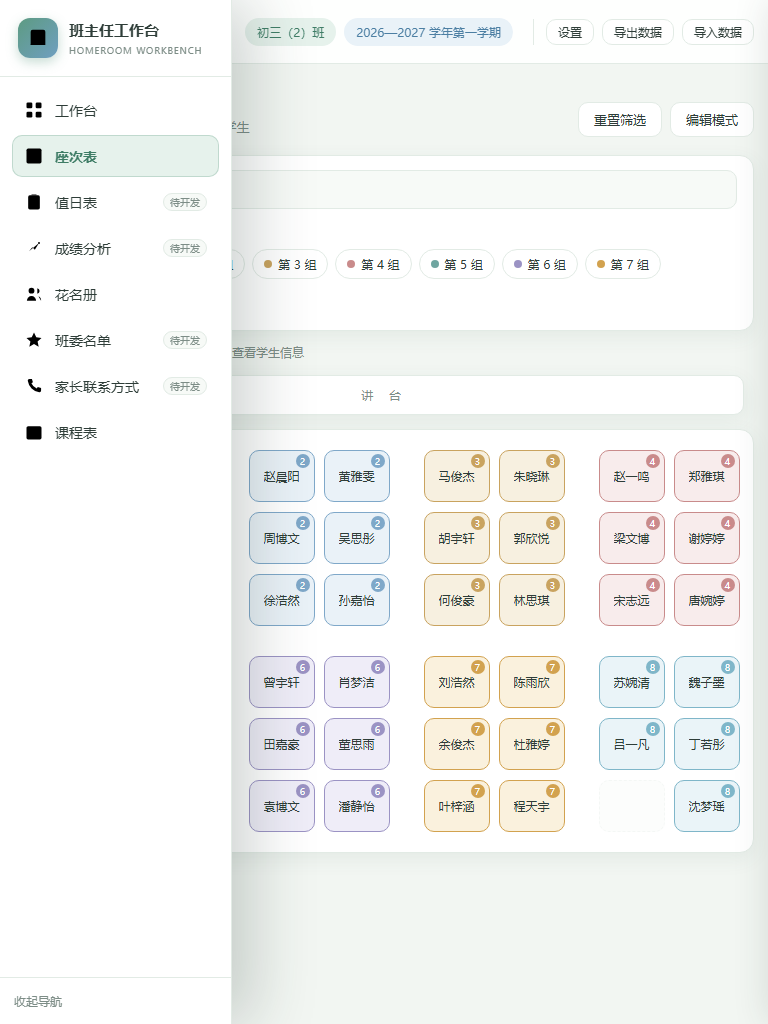
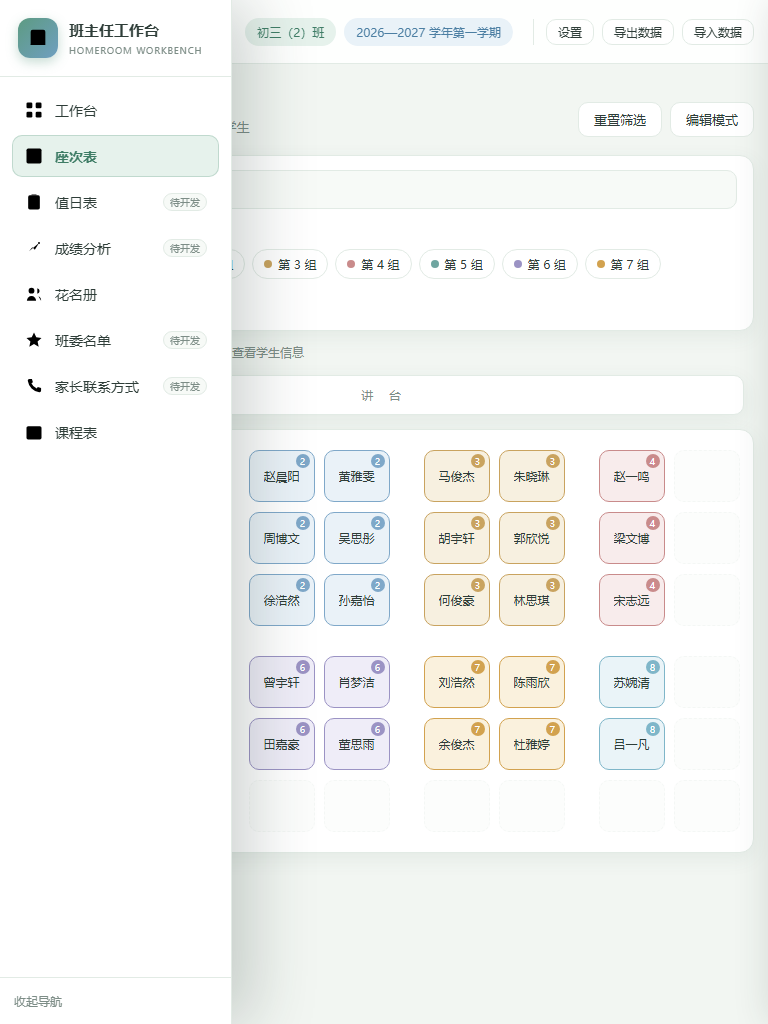
feat: 座次表排/列可随时调整（布局持久化、超范围学生自动转未安排）

diff --git a/js/app.js b/js/app.js
@@ -88,6 +88,7 @@ const state = {
 
 const TODAY = ATTENDANCE.date;
 const WEEK_CN = ['日', '一', '二', '三', '四', '五', '六'];
+const CLASSROOM_DEFAULT = { rows: 6, cols: 8 };
 
 /* ---------- 工具函数 ---------- */
 const byId = id => document.getElementById(id);
@@ -199,6 +200,10 @@ async function loadAllData() {
   }
   if (!AppData.settings.backup) {
     AppData.settings.backup = { enabled: true, frequency: 'daily', keep: 5, lastBackup: null };
+    changed = true;
+  }
+  if (!AppData.settings.classroom) {
+    AppData.settings.classroom = Object.assign({}, CLASSROOM_DEFAULT);
     changed = true;
   }
   if (changed) await Store.putRecord('settings', AppData.settings);
@@ -1621,28 +1626,41 @@ function seatCell(rowNo, colNo) {
     </button>`;
 }
 
-function seatRow(rowNo) {
-  const cells = [1, 2, 3, 4, 5, 6, 7, 8].map(c => seatCell(rowNo, c));
+function classroomDims() {
+  const c = (AppData.settings && AppData.settings.classroom) || CLASSROOM_DEFAULT;
+  const rows = Math.min(Math.max(parseInt(c.rows, 10) || 6, 1), 12);
+  const cols = Math.min(Math.max(parseInt(c.cols, 10) || 8, 1), 16);
+  return { rows, cols };
+}
+
+function seatRow(rowNo, cols) {
+  let cellsHtml = '';
+  for (let c = 1; c <= cols; c += 1) {
+    cellsHtml += seatCell(rowNo, c);
+    if (c % 2 === 0 && c !== cols) cellsHtml += '<span class="aisle"></span>';
+  }
   return `
     <div class="seat-row${rowNo === 4 ? ' row-gap' : ''}">
       <span class="row-label">${rowNo}排</span>
-      ${cells[0]}${cells[1]}<span class="aisle"></span>
-      ${cells[2]}${cells[3]}<span class="aisle"></span>
-      ${cells[4]}${cells[5]}<span class="aisle"></span>
-      ${cells[6]}${cells[7]}
+      ${cellsHtml}
     </div>`;
 }
 
 function renderSeating() {
+  const dims = classroomDims();
   const groupChips = [0, 1, 2, 3, 4, 5, 6, 7, 8].map(g => `
     <button class="gchip g${g}" data-group="${g}" type="button">
       ${g ? `<i class="dot"></i>第 ${g} 组` : '全部'}
     </button>`).join('');
   const unseated = D.students().filter(s => !s.row || !s.col);
+  const dimOptions = n => Array.from({ length: n }, (_, i) => i + 1).map(v => `<option value="${v}">${v}</option>`).join('');
   const editBar = state.seatEditMode ? `
     <div class="edit-bar card">
       <span class="edit-status" id="editStatus"></span>
       <div class="edit-actions">
+        <label class="dims-label">排数 <select id="rowDimSel">${dimOptions(12)}</select></label>
+        <label class="dims-label">列数 <select id="colDimSel">${dimOptions(16)}</select></label>
+        <button class="btn" id="applyDimsBtn" type="button">调整布局</button>
         <button class="btn ${state.seatMoveMode ? 'primary' : ''}" id="moveBtn" type="button">移动 / 互换</button>
         <button class="btn primary" id="addStudentBtn" type="button">＋ 新增学生</button>
       </div>
@@ -1655,7 +1673,7 @@ function renderSeating() {
 
   byId('content').innerHTML = `
     <div class="page-head">
-      <div><h2>座次表</h2><p>${classInfo().className} · 6 排 × 8 列 · 共 ${D.students().length} 名学生</p></div>
+      <div><h2>座次表</h2><p>${classInfo().className} · ${dims.rows} 排 × ${dims.cols} 列 · 共 ${D.students().length} 名学生</p></div>
       <div class="page-actions">
         <button class="btn ghost" id="seatReset" type="button">重置筛选</button>
       <button class="btn ${state.seatEditMode ? 'primary' : 'ghost'}" id="seatEditBtn" type="button">
@@ -1680,13 +1698,13 @@ function renderSeating() {
     ${unseatedPanel}
 
     <p class="seat-hint">${state.seatEditMode
-      ? '编辑模式：点击座位修改学生信息，点击空位新增学生；开启「移动 / 互换」后先点一名学生，再点目标座位。'
+      ? '编辑模式：点击座位修改学生信息，点击空位新增学生；开启「移动 / 互换」后先点一名学生，再点目标座位；可在编辑栏随时调整排 / 列。'
       : '点击小组标签可多选高亮；点击任意座位查看学生信息'}</p>
 
     <div class="podium"><span>讲 台</span></div>
     <div class="seat-map-wrap card">
       <div class="seat-map" id="seatMap">
-        ${[1, 2, 3, 4, 5, 6].map(seatRow).join('')}
+        ${Array.from({ length: dims.rows }, (_, i) => seatRow(i + 1, dims.cols)).join('')}
       </div>
     </div>`;
 
@@ -1753,13 +1771,29 @@ function bindSeatEvents() {
     });
   }
 
+  const rowSel = byId('rowDimSel');
+  const colSel = byId('colDimSel');
+  if (rowSel && colSel) {
+    const dims = classroomDims();
+    rowSel.value = String(dims.rows);
+    colSel.value = String(dims.cols);
+    byId('applyDimsBtn').addEventListener('click', () => {
+      const rows = Number(rowSel.value);
+      const cols = Number(colSel.value);
+      const moved = D.students().filter(s => s.row > rows || s.col > cols).length;
+      if (!confirm(`将座位布局调整为 ${rows} 排 × ${cols} 列。\n超出范围的 ${moved} 名学生将转为「未安排」，确定吗？`)) return;
+      applyClassroomDims(rows, cols);
+    });
+  }
+
   const addBtn = byId('addStudentBtn');
   if (addBtn) {
     addBtn.addEventListener('click', () => {
+      const dims = classroomDims();
       const occupied = new Set(D.students().filter(s => s.row > 0).map(s => s.row + '-' + s.col));
       let empty = null;
-      for (let r = 1; r <= 6 && !empty; r += 1) {
-        for (let c = 1; c <= 8; c += 1) {
+      for (let r = 1; r <= dims.rows && !empty; r += 1) {
+        for (let c = 1; c <= dims.cols; c += 1) {
           if (!occupied.has(r + '-' + c)) { empty = [r, c]; break; }
         }
       }
@@ -1824,6 +1858,23 @@ function updateMoveUI() {
   }
 }
 
+async function applyClassroomDims(rows, cols) {
+  const s = AppData.settings;
+  s.classroom = { rows, cols };
+  let moved = 0;
+  AppData.students.forEach(st => {
+    if (st.row > rows || st.col > cols) {
+      st.row = 0;
+      st.col = 0;
+      moved += 1;
+    }
+  });
+  await Store.putRecord('settings', s);
+  if (moved) await Store.putStudents(AppData.students);
+  renderSeating();
+  showToast(`座位布局已调整为 ${rows} 排 × ${cols} 列${moved ? `，${moved} 名学生转为未安排` : ''}`);
+}
+
 function updateSeatFilter(countEl) {
   const q = state.seatQuery.toLowerCase();
   const hasGroup = state.activeGroups.size > 0;
@@ -1872,10 +1923,12 @@ function openStudentForm(sid, defRow, defCol) {
     name: '', gender: '男', group: 1, row: defRow || 0, col: defCol || 0,
     role: '', parent: '', phone: ''
   };
+  const dims = classroomDims();
   const rowOptions = ['<option value="0">未安排</option>']
-    .concat([1, 2, 3, 4, 5, 6].map(r => `<option value="${r}" ${v.row === r ? 'selected' : ''}>第 ${r} 排</option>`)).join('');
+    .concat(Array.from({ length: dims.rows }, (_, i) => i + 1).map(r =>
+      `<option value="${r}" ${v.row === r ? 'selected' : ''}>第 ${r} 排</option>`)).join('');
   const colOptions = ['<option value="0">未安排</option>']
-    .concat([1, 2, 3, 4, 5, 6, 7, 8].map(c =>
+    .concat(Array.from({ length: dims.cols }, (_, i) => i + 1).map(c =>
       `<option value="${c}" ${v.col === c ? 'selected' : ''}>第 ${c} 列</option>`)).join('');
   const extraActions = s ? `
     <div class="student-extra">
@@ -1923,7 +1976,7 @@ function openStudentForm(sid, defRow, defCol) {
     colSel.disabled = rowSel.value === '0';
     if (rowSel.value === '0') colSel.value = '0';
   };
-  if (![1, 2, 3, 4, 5, 6, 7, 8].includes(v.col) || v.row === 0) colSel.value = '0';
+  if (v.row === 0 || !Array.from({ length: dims.cols }, (_, i) => i + 1).includes(v.col)) colSel.value = '0';
   rowSel.addEventListener('change', syncCol);
   syncCol();
 
@@ -3568,6 +3621,7 @@ async function finishInit() {
     className: byId('initClassName').value.trim() || classInfo().className,
     semester: byId('initSemester').value.trim() || classInfo().semester,
     backup: { enabled: true, frequency: 'daily', keep: 5, lastBackup: null },
+    classroom: Object.assign({}, CLASSROOM_DEFAULT),
     initializedAt: new Date().toISOString()
   };
 

diff --git a/css/style.css b/css/style.css
@@ -1505,6 +1505,27 @@ body.drawer-lock { overflow: hidden; }
 .edit-status { font-size: 12px; color: var(--ink); }
 .edit-actions { display: flex; gap: 8px; flex-wrap: wrap; }
 
+.dims-label {
+  display: inline-flex;
+  align-items: center;
+  gap: 5px;
+  font-size: 12px;
+  color: var(--ink);
+}
+
+.dims-label select {
+  border: 1px solid var(--border);
+  border-radius: 8px;
+  padding: 6px 8px;
+  font-size: 12px;
+  background: var(--surface);
+  color: var(--ink);
+  font-family: inherit;
+  outline: none;
+}
+
+.dims-label select:focus { border-color: var(--primary); }
+
 .unseated-panel {
   display: flex;
   align-items: center;

diff --git a/README.md b/README.md
@@ -20,7 +20,7 @@ python -m http.server 8080
 
 - **整体布局**：左侧固定导航（8 个菜单项），右侧主内容区；浅绿 / 浅蓝 / 米白配色；平板适配，侧栏可折叠（桌面端）或抽屉式滑出（窄屏）。
 - **工作台首页**：常规工作（早读考勤 / 课堂纪律 / 作业收缴 / 课间巡查）与特色工作（主题班会 / 家校沟通 / 学生成长 / 班级活动）两大板块，共 8 张卡片，点击弹出详情面板。
-- **座次表**：6×8 共 48 座座位图，支持按 8 个小组多选高亮、按姓名搜索定位；「编辑模式」下可修改学生信息、新增学生、删除学生、移除座位、移动 / 互换座位，未安排座位的学生会进入待安排面板。
+- **座次表**：默认 6 排 × 8 列座位图，**排 / 列可在编辑模式随时调整**（1-12 排 × 1-16 列，超出范围的学生自动转未安排）；支持按 8 个小组多选高亮、按姓名搜索定位；「编辑模式」下可修改学生信息、新增学生、删除学生、移除座位、移动 / 互换座位，未安排座位的学生会进入待安排面板。
 - **数据持久化**：全部数据存入浏览器内置的 IndexedDB（零安装、无需服务器），首次打开自动播种示例班级数据；顶栏提供「导出数据 / 导入数据」做 JSON 备份与恢复。
 - **初始化向导**：首次打开先进入三步向导——填写老师姓名 / 班级名称 / 学期，再选择初始数据来源（导入花名册、示例班级数据或空白开始），最后确认进入工作台；之后可随时在顶栏「设置」修改老师与班级信息。
 - **花名册导入**：支持 CSV 花名册（姓名、性别、小组、排、列、班委职务、家长姓名、联系电话）或本应用导出的 JSON 备份，向导内可下载 CSV 模板。
